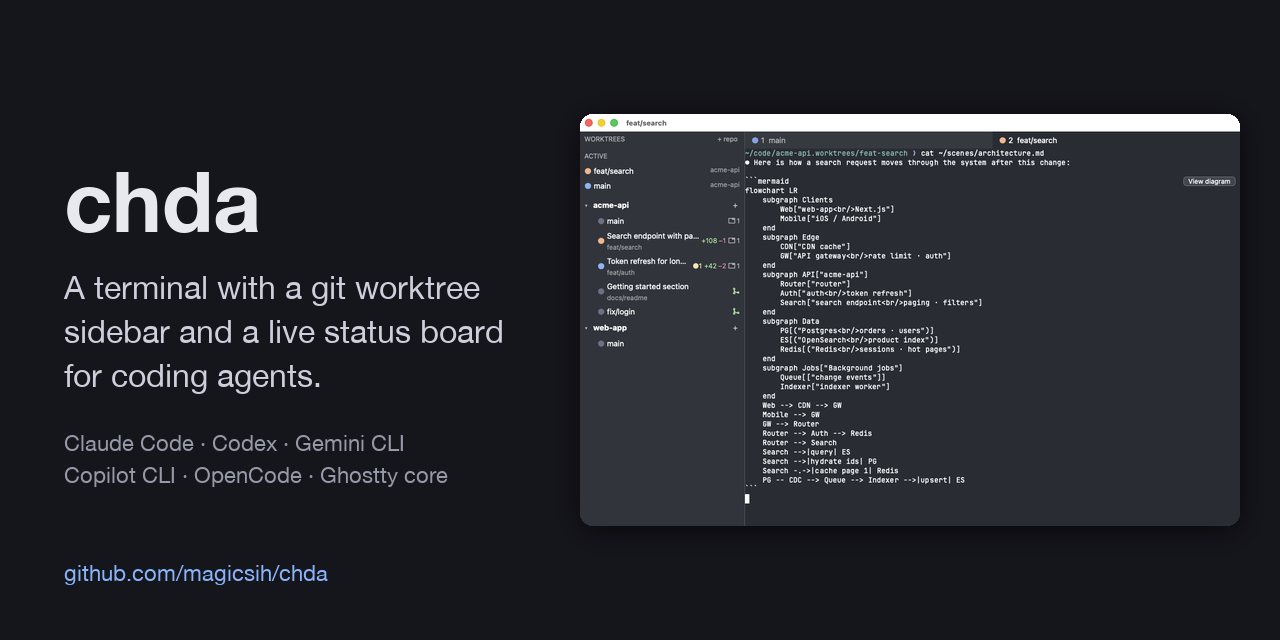
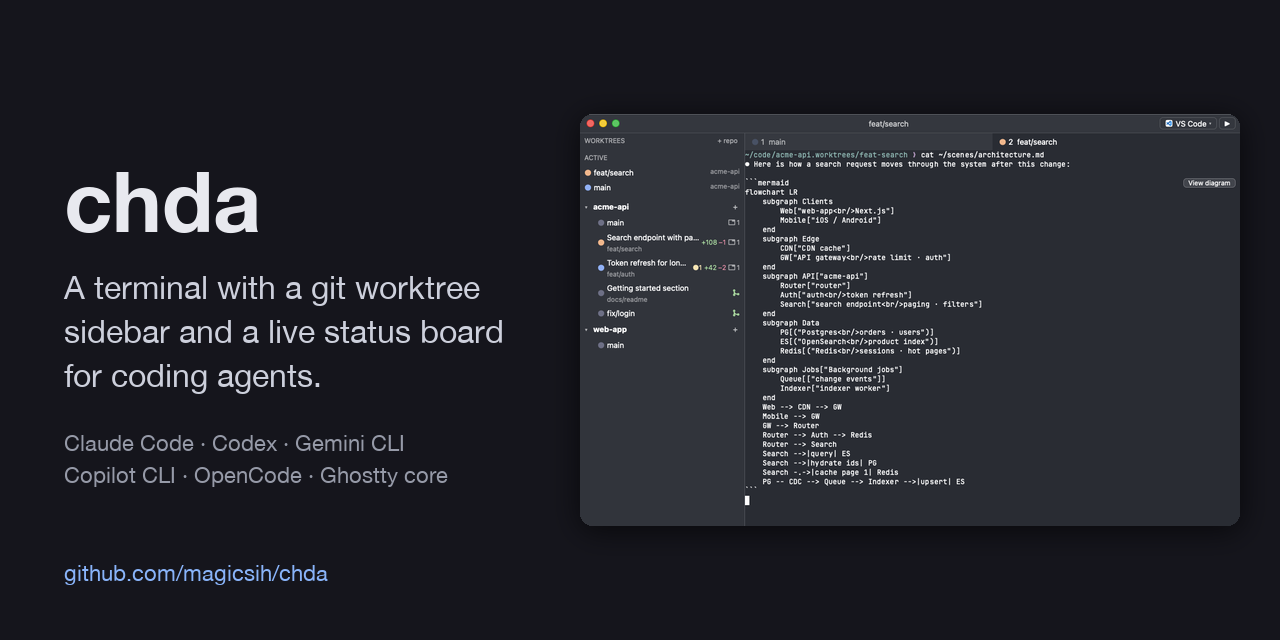
docs: refresh the demo and screenshots with the new title bar
Recaptured from main with the title bar's Open in control (set to VS Code)
in every window shot: demo.gif, hero.png, the sidebar and palette shots
and the social preview. The site's worktree card mentions opening the
worktree in an editor from the title bar.

Changed region(s): [[0.4375, 0.1562, 0.9688, 0.7812], [0.9062, 0.25, 0.9688, 0.3125]]

diff --git a/docs/site/index.html b/docs/site/index.html
@@ -85,7 +85,7 @@
   <section>
     <h2>Why a worktree terminal</h2>
     <div class="cols">
-      <div class="col"><h3>One worktree per task</h3><p>Create a worktree from the sidebar, from any branch, with a note saying what the task is. Work in it, read its diff, merge it back and clean it up.</p></div>
+      <div class="col"><h3>One worktree per task</h3><p>Create a worktree from the sidebar, from any branch, with a note saying what the task is. Work in it, read its diff, open it in your editor from the title bar, merge it back and clean it up.</p></div>
       <div class="col"><h3>Agents you can see</h3><p>Claude Code, Codex, Gemini CLI, Copilot CLI and OpenCode report through chda's hooks. A dot tells you who is working, who is waiting for you, and who is done.</p></div>
       <div class="col"><h3>Ghostty inside</h3><p>The VT core is libghostty-vt, so escapes, Unicode and keys behave like Ghostty. Your Ghostty font, colors and ligatures carry over.</p></div>
       <div class="col"><h3>Agents can drive it</h3><p><code>chda mcp</code> lets an agent create a worktree, open a tab or report its status. New worktrees show up in the sidebar at once.</p></div>

diff --git a/README.md b/README.md
@@ -1,5 +1,5 @@
 <p align="center">
-  <img src="docs/media/hero.png" alt="chda: a git worktree sidebar with notes, diff badges, merged and open-tab icons and agent status, next to an agent's Mermaid architecture diagram with its View diagram button" width="880">
+  <img src="docs/media/hero.png" alt="chda: a title bar with an Open in VS Code button, a git worktree sidebar with notes, diff badges, merged and open-tab icons and agent status, next to an agent's Mermaid architecture diagram with its View diagram button" width="880">
 </p>
 
 <h1 align="center">chda</h1>
